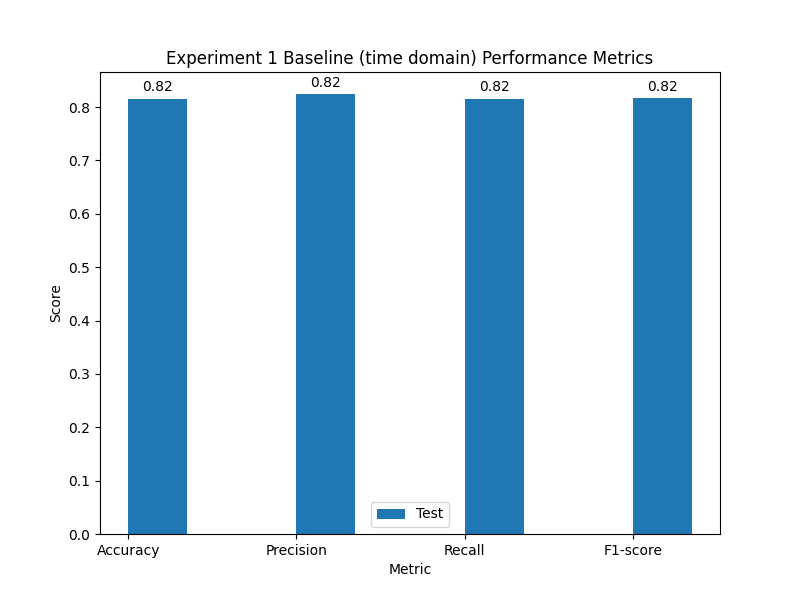
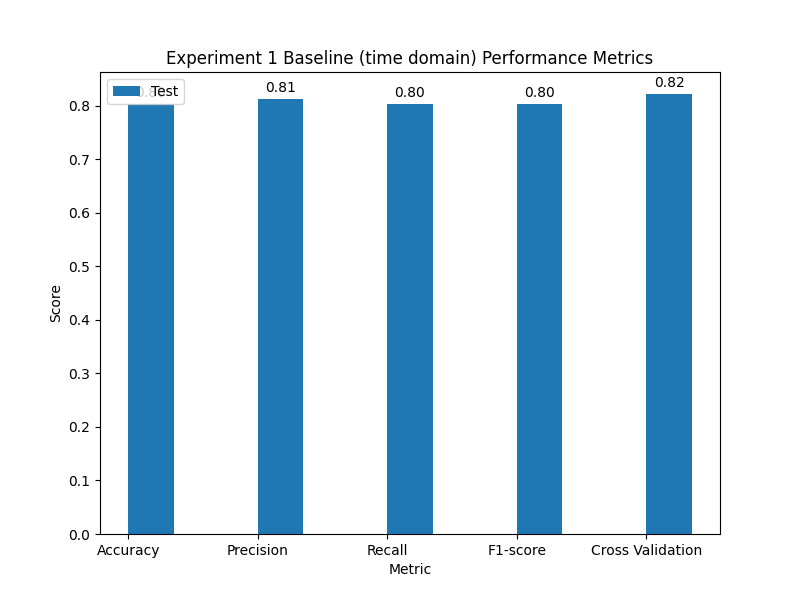
added cv for testing and created SFS metrics

diff --git a/model.py b/model.py
@@ -375,9 +375,10 @@ def random_forest_classifier():
 
 
 def compute_metrics_and_plot(
-    y_test, y_hat, label_decoder, plot_file_name, plot_title, folder
+    y_test, y_hat, label_decoder, plot_file_name, plot_title, folder, cross_val_scores
 ):
-    metric_names = ["Accuracy", "Precision", "Recall", "F1-score"]
+
+    metric_names = ["Accuracy", "Precision", "Recall", "F1-score", "Cross Validation"]
     base_classifier_accuracy = metrics.accuracy_score(y_test, y_hat)
     experiment_1__base_precision = metrics.precision_score(
         y_test, y_hat, average="macro"
@@ -395,15 +396,15 @@ def compute_metrics_and_plot(
         experiment_1__base_precision,
         experiment_1__base_recall,
         experiment_1__base_f1,
+        cross_val_scores,
     ]
-    pprint(experiment_1_test_metrics)
-    # plot_metrics(
-    #     experiment_1_test_metrics,
-    #     metric_names,
-    #     plot_name=f"{plot_file_name}_metrics",
-    #     model_name=plot_title,
-    #     folder=folder,
-    # )
+    plot_metrics(
+        experiment_1_test_metrics,
+        metric_names,
+        plot_name=f"{plot_file_name}_metrics",
+        model_name=plot_title,
+        folder=folder,
+    )
 
     # Plot Confusion Matrix for Regular Validation
     # plot_confusion_matrix(
@@ -461,6 +462,10 @@ def SVM(experiment_number=1):
             X_test_experiment_1
         )
 
+        baseline_score = cross_val_score(
+            base_classifier_experiment_1, X_train_experiment_1, y_train, cv=kf
+        ).mean()
+
         # compute metrics for baseline
         compute_metrics_and_plot(
             y_test,
@@ -469,6 +474,7 @@ def SVM(experiment_number=1):
             plot_file_name="base_experiment_1",
             plot_title="Experiment 1 Baseline (time domain)",
             folder="experiment_1",
+            cross_val_scores=baseline_score,
         )
 
         # ======================================================================#
@@ -489,6 +495,10 @@ def SVM(experiment_number=1):
         y_hat_experiment_1 = base_classifier_experiment_1.predict(
             X_test_experiment_1_selected
         )
+
+        experiment_score = cross_val_score(
+            base_classifier_experiment_1, X_train_experiment_1, y_train, cv=kf
+        ).mean()
         metric_dict = experiment_1.get_metric_dict()
         df = pd.DataFrame.from_dict(metric_dict).T
         df.to_csv("plots/metrics/experiment_1/experiment_1_SFS_metrics.csv")
@@ -507,6 +517,7 @@ def SVM(experiment_number=1):
             plot_file_name="experiment_1",
             plot_title="Experiment 1 (time domain)",
             folder="experiment_1",
+            cross_val_scores=experiment_score,
         )
 
     # ================================================================== #
@@ -518,6 +529,10 @@ def SVM(experiment_number=1):
             X_test_experiment_2
         )
 
+        baseline_score = cross_val_score(
+            base_classifier_experiment_2, X_train_experiment_2, y_train, cv=kf
+        ).mean()
+
         # compute metrics for baseline
         compute_metrics_and_plot(
             y_test,
@@ -526,6 +541,7 @@ def SVM(experiment_number=1):
             plot_file_name="base_experiment_2",
             plot_title="Experiment 2 Baseline (spectral features)",
             folder="experiment_2",
+            cross_val_scores=baseline_score,
         )
 
         # Feature Selection
@@ -545,6 +561,11 @@ def SVM(experiment_number=1):
         y_hat_experiment_2 = base_classifier_experiment_2.predict(
             X_test_experiment_2_selected
         )
+
+        experiment_score = cross_val_score(
+            base_classifier_experiment_2, X_train_experiment_2, y_train, cv=kf
+        ).mean()
+
         metric_dict = experiment_2.get_metric_dict()
         df = pd.DataFrame.from_dict(metric_dict).T
         df.to_csv(
@@ -565,6 +586,7 @@ def SVM(experiment_number=1):
             plot_file_name="experiment_2",
             plot_title="Experiment 2 (spectral features)",
             folder="experiment_2",
+            cross_val_scores=experiment_score,
         )
     elif experiment_number == 3:
         base_classifier_experiment_3 = svm.SVC(kernel="linear")
@@ -572,6 +594,10 @@ def SVM(experiment_number=1):
         y_hat_base_classifier_experiment_3 = base_classifier_experiment_3.predict(
             X_test_experiment_3
         )
+
+        baseline_score = cross_val_score(
+            base_classifier_experiment_3, X_train_experiment_3, y_train, cv=kf
+        ).mean()
 
         # compute metrics for baseline
         compute_metrics_and_plot(
@@ -581,6 +607,7 @@ def SVM(experiment_number=1):
             plot_file_name="base_experiment_3",
             plot_title="Experiment 3 Baseline (No MFCCs)",
             folder="experiment_3",
+            cross_val_scores=baseline_score,
         )
 
         # Feature Selection
@@ -600,6 +627,10 @@ def SVM(experiment_number=1):
         y_hat_experiment_3 = base_classifier_experiment_3.predict(
             X_test_experiment_3_selected
         )
+
+        experiment_score = cross_val_score(
+            base_classifier_experiment_3, X_train_experiment_3, y_train, cv=kf
+        ).mean()
         metric_dict = experiment_3.get_metric_dict()
         df = pd.DataFrame.from_dict(metric_dict).T
         df.to_csv(
@@ -621,6 +652,7 @@ def SVM(experiment_number=1):
             plot_file_name="experiment_3",
             plot_title="Experiment 3 (No MFCCs)",
             folder="experiment_3",
+            cross_val_scores=experiment_score,
         )
 
     elif experiment_number == 4:
@@ -629,7 +661,9 @@ def SVM(experiment_number=1):
         y_hat_base_classifier_experiment_4 = base_classifier_experiment_4.predict(
             X_test_experiment_4
         )
-
+        baseline_score = cross_val_score(
+            base_classifier_experiment_4, X_train_experiment_4, y_train, cv=kf
+        ).mean()
         # compute metrics for baseline
         compute_metrics_and_plot(
             y_test,
@@ -638,6 +672,7 @@ def SVM(experiment_number=1):
             plot_file_name="base_experiment_4",
             plot_title="Experiment 4 Baseline (MFCCs)",
             folder="experiment_4",
+            cross_val_scores=baseline_score,
         )
 
         # Feature Selection
@@ -657,6 +692,11 @@ def SVM(experiment_number=1):
         y_hat_experiment_4 = base_classifier_experiment_4.predict(
             X_test_experiment_4_selected
         )
+
+        experiment_score = cross_val_score(
+            base_classifier_experiment_4, X_train_experiment_4, y_train, cv=kf
+        ).mean()
+
         metric_dict = experiment_4.get_metric_dict()
         df = pd.DataFrame.from_dict(metric_dict).T
         df.to_csv(
@@ -678,6 +718,7 @@ def SVM(experiment_number=1):
             plot_file_name="experiment_4",
             plot_title="Experiment 4 (MFCCs)",
             folder="experiment_4",
+            cross_val_scores=experiment_score,
         )
 
     elif experiment_number == 5:
@@ -687,10 +728,10 @@ def SVM(experiment_number=1):
             X_test_experiment_5
         )
 
-        scores = cross_val_score(
+        baseline_score = cross_val_score(
             base_classifier_experiment_5, X_train_experiment_5, y_train, cv=kf
-        )
-        pprint(scores)
+        ).mean()
+        # pprint(scores)
         # compute metrics for baseline
         compute_metrics_and_plot(
             y_test,
@@ -699,6 +740,7 @@ def SVM(experiment_number=1):
             plot_file_name="base_experiment_5",
             plot_title="Experiment 5 Baseline (entire feature set)",
             folder="experiment_5",
+            cross_val_scores=baseline_score,
         )
 
         # Feature Selection
@@ -719,10 +761,9 @@ def SVM(experiment_number=1):
             X_test_experiment_5_selected
         )
 
-        scores = cross_val_score(
-            base_classifier_experiment_5, X_train_experiment_5_selected, y_train, cv=kf
-        )
-        pprint(scores)
+        experiment_score = cross_val_score(
+            base_classifier_experiment_5, X_train_experiment_5, y_train, cv=kf
+        ).mean()
 
         metric_dict = experiment_5.get_metric_dict()
         df = pd.DataFrame.from_dict(metric_dict).T
@@ -745,13 +786,15 @@ def SVM(experiment_number=1):
             plot_file_name="experiment_5",
             plot_title="Experiment 5 (entire feature set)",
             folder="experiment_5",
+            cross_val_scores=experiment_score,
         )
 
 
 if __name__ == "__main__":
 
     # linear_SVM()
-    SVM(experiment_number=5)
+    for i in [1, 2, 3, 4]:
+        SVM(experiment_number=i)
     # RBF_SVM()
 
     # random_forest_classifier()

diff --git a/extract_features.py b/extract_features.py
@@ -166,30 +166,27 @@ def extract_features(file_path):
     )  # how uniform is the distribution? found more in percussive sounds.
     mfcc = librosa.feature.mfcc(y=y, sr=sr, n_mfcc=13)
 
-    
-
     aggregated_features = {
-            "mean_onset": np.array([np.mean(onset_env)]),
-            "std_onset": np.array([np.std(onset_env)]),
-            "mean_zcr": np.array([np.mean(zcr)]),
-            "std_zcr": np.array([np.std(zcr)]),
-            "mean_ioi": np.array([np.mean(iois)]),
-            "std_ioi": np.array([np.std(iois)]),
-            "tempo": tempo,
-            "mean_centroid": np.array([np.mean(spec_centroid)]),
-            "std_centroid": np.array([np.std(spec_centroid)]),
-            "mean_bandwidth": np.array([np.mean(spec_bandwidth)]),
-            "std_bandwidth": np.array([np.std(spec_bandwidth)]),
-            "mean_rolloff": np.array([np.mean(spec_rolloff)]),
-            "std_rolloff": np.array([np.std(spec_rolloff)]),
-            "mean_flatness": np.array([np.mean(spec_flatness)]),
-            "std_flatness": np.array([np.std(spec_flatness)]),
-            "mean_mfcc": np.mean(mfcc, axis=1),
-            "std_mfcc": np.std(mfcc, axis=1),
-        }
-    
+        "mean_onset": np.array([np.mean(onset_env)]),
+        "std_onset": np.array([np.std(onset_env)]),
+        "mean_zcr": np.array([np.mean(zcr)]),
+        "std_zcr": np.array([np.std(zcr)]),
+        "mean_ioi": np.array([np.mean(iois)]),
+        "std_ioi": np.array([np.std(iois)]),
+        "tempo": tempo,
+        "mean_centroid": np.array([np.mean(spec_centroid)]),
+        "std_centroid": np.array([np.std(spec_centroid)]),
+        "mean_bandwidth": np.array([np.mean(spec_bandwidth)]),
+        "std_bandwidth": np.array([np.std(spec_bandwidth)]),
+        "mean_rolloff": np.array([np.mean(spec_rolloff)]),
+        "std_rolloff": np.array([np.std(spec_rolloff)]),
+        "mean_flatness": np.array([np.mean(spec_flatness)]),
+        "std_flatness": np.array([np.std(spec_flatness)]),
+        "mean_mfcc": np.mean(mfcc, axis=1),
+        "std_mfcc": np.std(mfcc, axis=1),
+    }
+
     pprint(aggregated_features)
-    
 
     feature_vector = np.concatenate(
         [
@@ -224,6 +221,22 @@ def extract_features(file_path):
     return feature_vector
 
 
+def get_tempo(y, sr):
+    z = np.abs(librosa.stft(y=y))
+    z = librosa.power_to_db(z)
+    onset_env = np.diff(z, axis=1)
+    onset_env = np.mean(onset_env, axis=0)
+    print(onset_env.shape)
+    plt.figure(figsize=(10, 4))
+    plt.plot(onset_env, label="Onset Strength")
+    plt.xlabel("Frames")
+    plt.ylabel("Onset Strength")
+    plt.title("Onset Strength Envelope")
+    plt.legend()
+    plt.tight_layout()
+    plt.savefig("temp.png")
+
+
 def plot_features():
     audio_path = "data/pop_rok_drm_id_001_wav/100bpm_pop_rok_drm_id_001_0001.wav"
     y, sr = librosa.load(audio_path, duration=4, dtype=np.float64)
@@ -231,6 +244,8 @@ def plot_features():
     fade_out_samples = int(0.5 * sr)  # fade out by half a second
     fade_out_envelope = np.linspace(1, 0, fade_out_samples)
     y[-fade_out_samples:] *= fade_out_envelope
+
+    get_tempo(y=y, sr=sr)
 
     tempo, beat_frames = librosa.beat.beat_track(y=y, sr=sr)
 
@@ -404,9 +419,9 @@ def plot_features():
 
 
 if __name__ == "__main__":
-    for file_path in file_paths:
-        process_file(file_path)
-
+    # for file_path in file_paths:
+    #     process_file(file_path)
+    plot_features()
     # num_workers = min(len(file_paths), cpu_count())
     # with Pool(num_workers) as pool:
     #     pool.map(process_file, file_paths)
